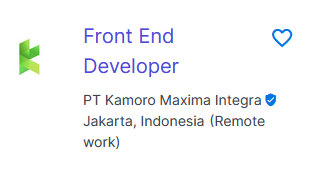
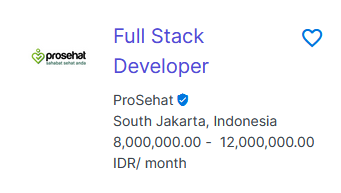
update vacancies (#24)

diff --git a/components/organisms/Vacancy.vue b/components/organisms/Vacancy.vue
@@ -133,12 +133,12 @@ export default {
       firstList: [
         {
           image: "/images/vacancy/job1.png",
-          url: "https://jobseeker.kalibrr.com/c/pensieve/jobs/188313/frontend-developer-7?similar_job_code=&job_ref=&app_source=job-board-mobile-1-5-15-133",
+          url: "https://jobseeker.kalibrr.com/c/nomura-research-institute/jobs/165772/frontend-engineer?similar_job_code=&app_source=job-board-mobile-3-7-15-2709",
           isHovering: false,
         },
         {
           image: "/images/vacancy/job2.png",
-          url: "https://jobseeker.kalibrr.com/c/pt-majoo-teknologi-indonesia/jobs/181040/frontend-engineer-3?similar_job_code=&job_ref=&app_source=job-board-mobile-1-3-15-133",
+          url: "https://jobseeker.kalibrr.com/c/asani/jobs/188089/software-engineer-front-end?similar_job_code=&app_source=job-board-mobile-2-15-15-2709",
           isHovering: false,
         },
         {
@@ -148,24 +148,24 @@ export default {
         },
         {
           image: "/images/vacancy/job4.png",
-          url: "https://jobseeker.kalibrr.com/c/pt-kamoro-maxima-integra/jobs/187535/front-end-developer?similar_job_code=&job_ref=&app_source=job-board-mobile-1-13-15-133",
+          url: "https://jobseeker.kalibrr.com/c/prosehat/jobs/186858/full-stack-developer?similar_job_code=&job_ref=&app_source=job-board-mobile-1-15-15-2709",
           isHovering: false,
         },
       ],
       secondList: [
         {
           image: "/images/vacancy/job5.png",
-          url: "https://jobseeker.kalibrr.com/c/luwjistik/jobs/182013/frontend-engineer?similar_job_code=&job_ref=&app_source=job-board-mobile-1-15-15-133",
+          url: "https://jobseeker.kalibrr.com/c/paket-id/jobs/184353/software-engineer?similar_job_code=&job_ref=&app_source=job-board-mobile-1-4-15-2709",
           isHovering: false,
         },
         {
           image: "/images/vacancy/job6.png",
-          url: "https://jobseeker.kalibrr.com/c/pt-majoo-teknologi-indonesia/jobs/184824/full-stack-developer-3?similar_job_code=&job_ref=&app_source=job-board-mobile-1-14-15-133",
+          url: "https://jobseeker.kalibrr.com/c/mitramas-infosys-global/jobs/145304/software-engineer-backend?similar_job_code=&job_ref=&app_source=job-board-mobile-1-3-15-2709",
           isHovering: false,
         },
         {
           image: "/images/vacancy/job7.png",
-          url: "https://jobseeker.kalibrr.com/c/mitramas-infosys-global/jobs/145304/software-engineer-backend?source=job-board-mobile-1-1-15-201&similar_job_code=&user_ref=www.kalibrr.com_organic_null_path&job_ref=",
+          url: "https://jobseeker.kalibrr.com/c/pintap/jobs/171952/frontend-engineer?similar_job_code=&app_source=job-board-mobile-4-15-15-2537",
           isHovering: false,
         },
         {
